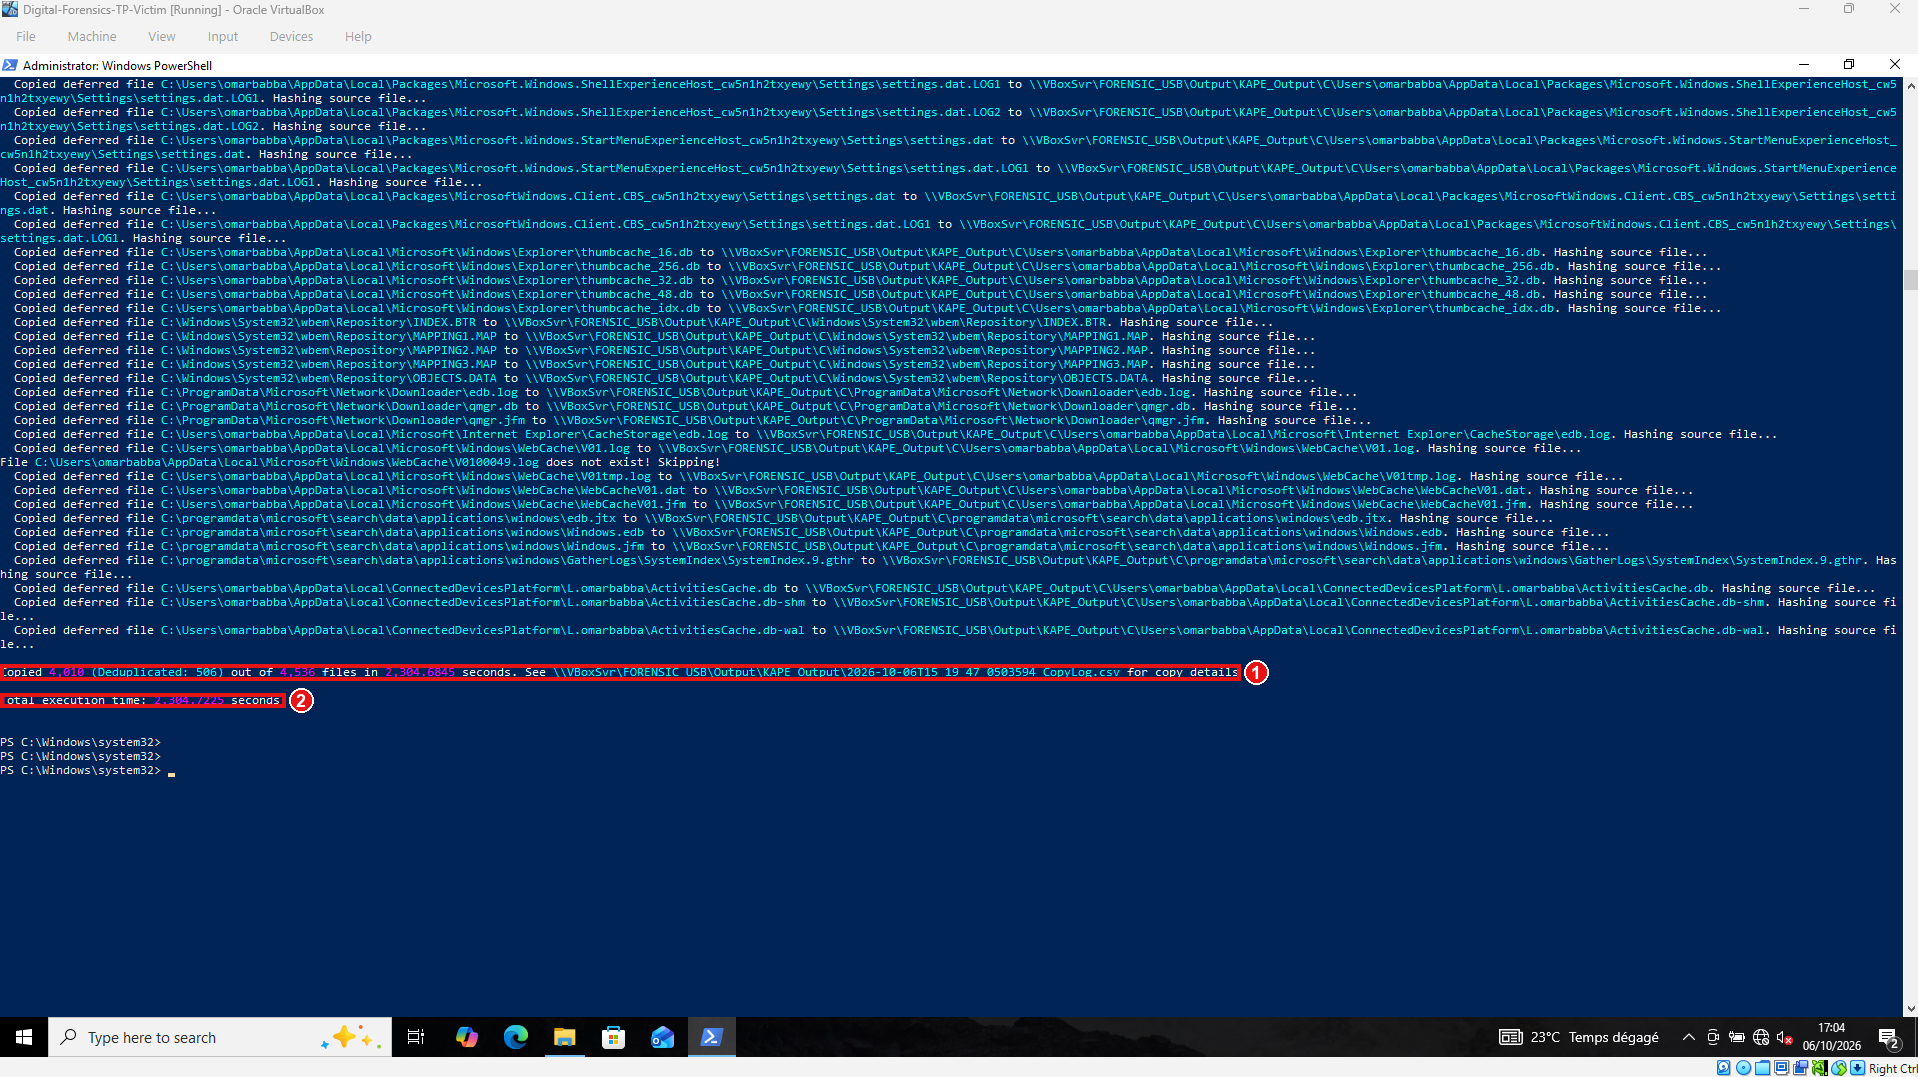
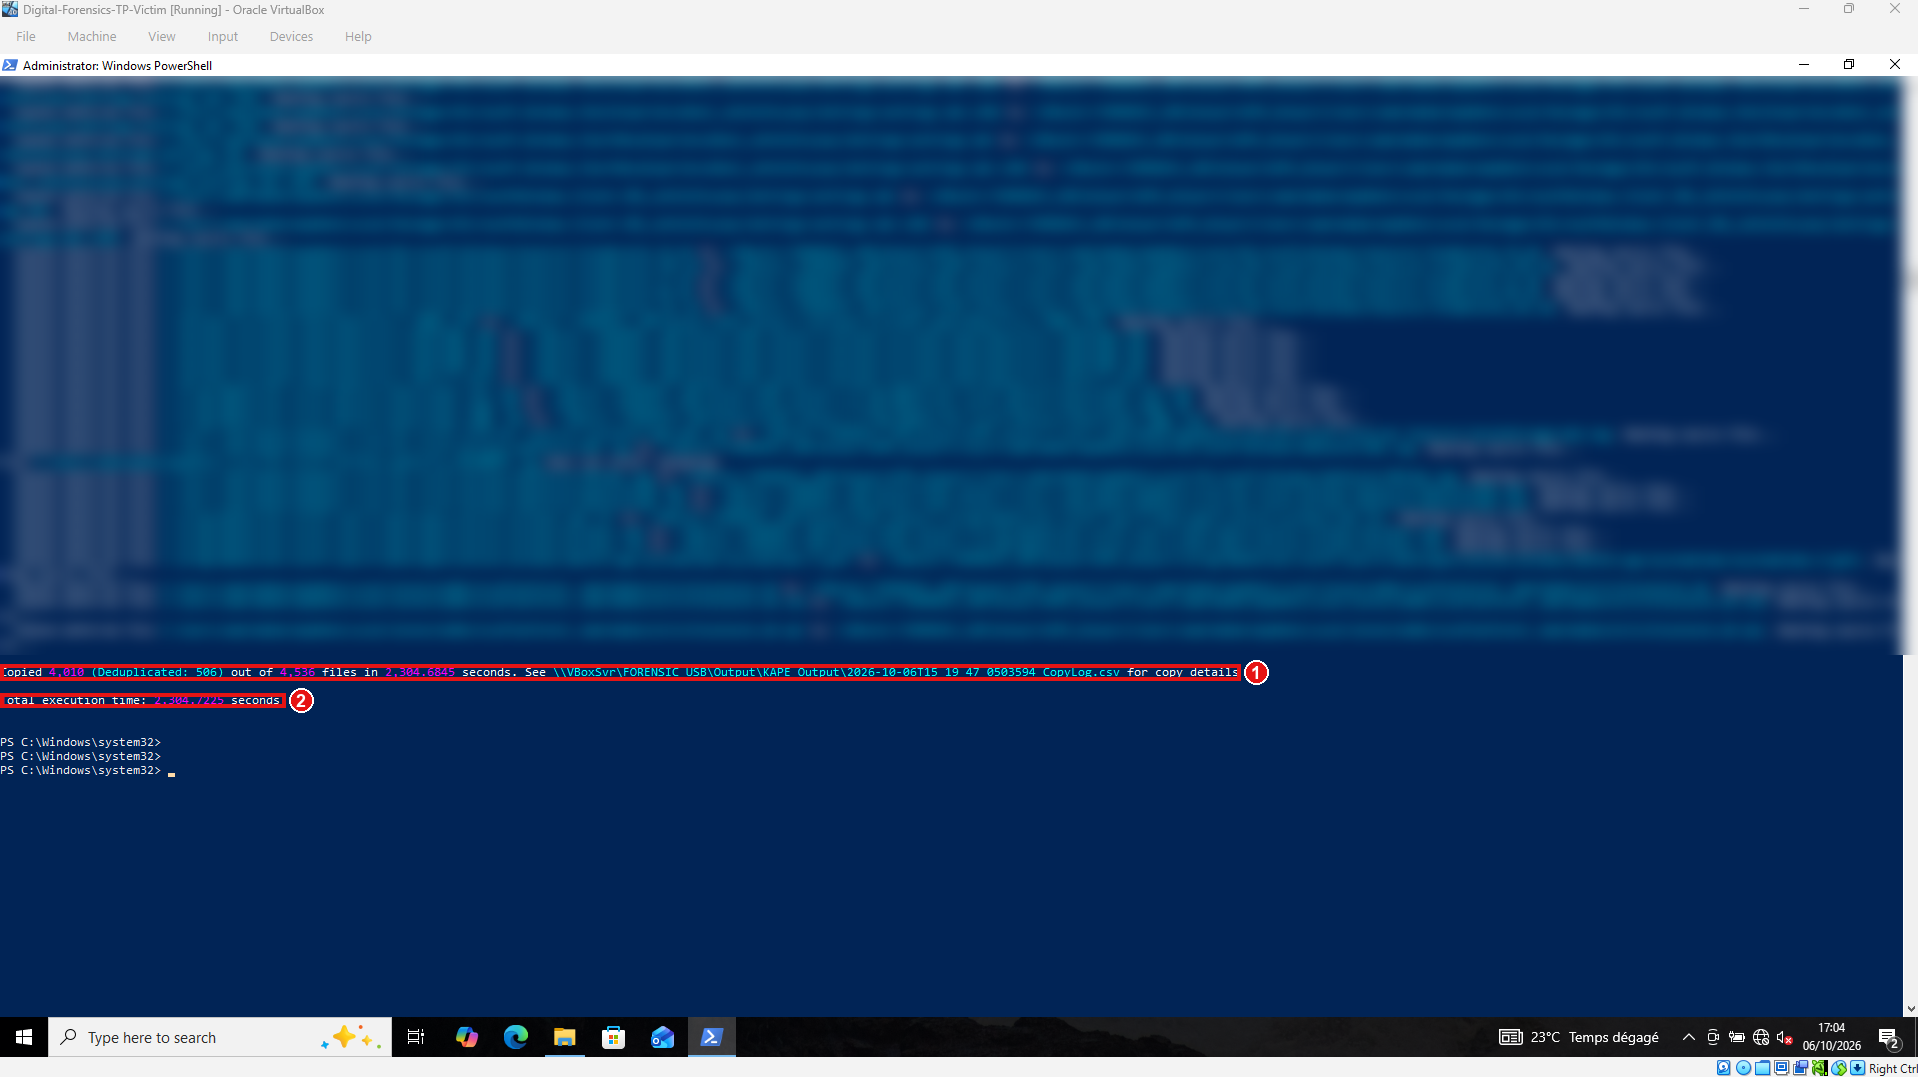
Blur host and user names in screenshots; add offline Atomic Red Team installer

diff --git a/docs/evidence.md b/docs/evidence.md
@@ -2,7 +2,7 @@
 
 Neuf captures prises pendant l'acquisition (6 octobre 2026). Les cadres rouges numérotés marquent ce que chaque capture **démontre**. Les heures affichées sont celles de la VM, qui avance d'une heure sur l'heure UTC de l'hôte.
 
-> Les captures montrent le nom de machine (`DESKTOP-LIJD7CI`) et le profil utilisateur de la VM. Le dépôt est privé : à anonymiser avant tout partage public.
+> **Anonymisation** : le nom de la machine et le nom du profil utilisateur ont été masqués par un flou gaussien, sans retoucher ni déformer le reste de l'image. Sur la capture 9, les chemins copiés par KAPE contiennent le nom du profil : toute la zone du journal est floutée, seules les lignes de résultat (cadres 1 et 2) restent lisibles.
 
 ---
 
